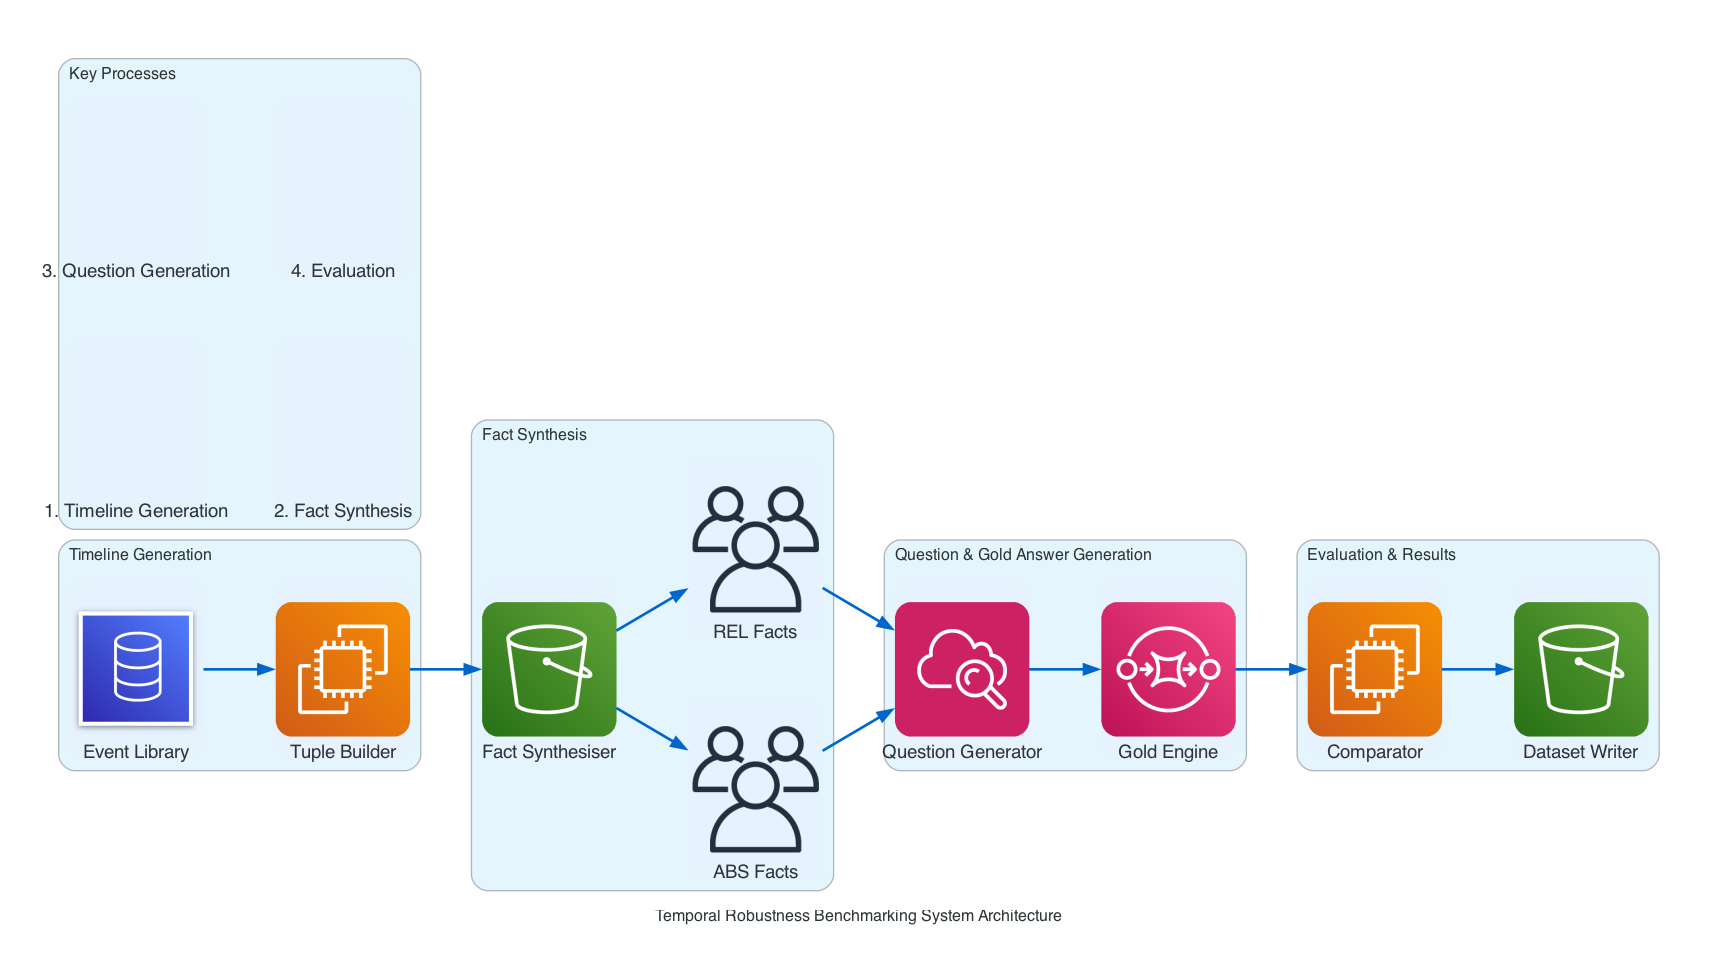
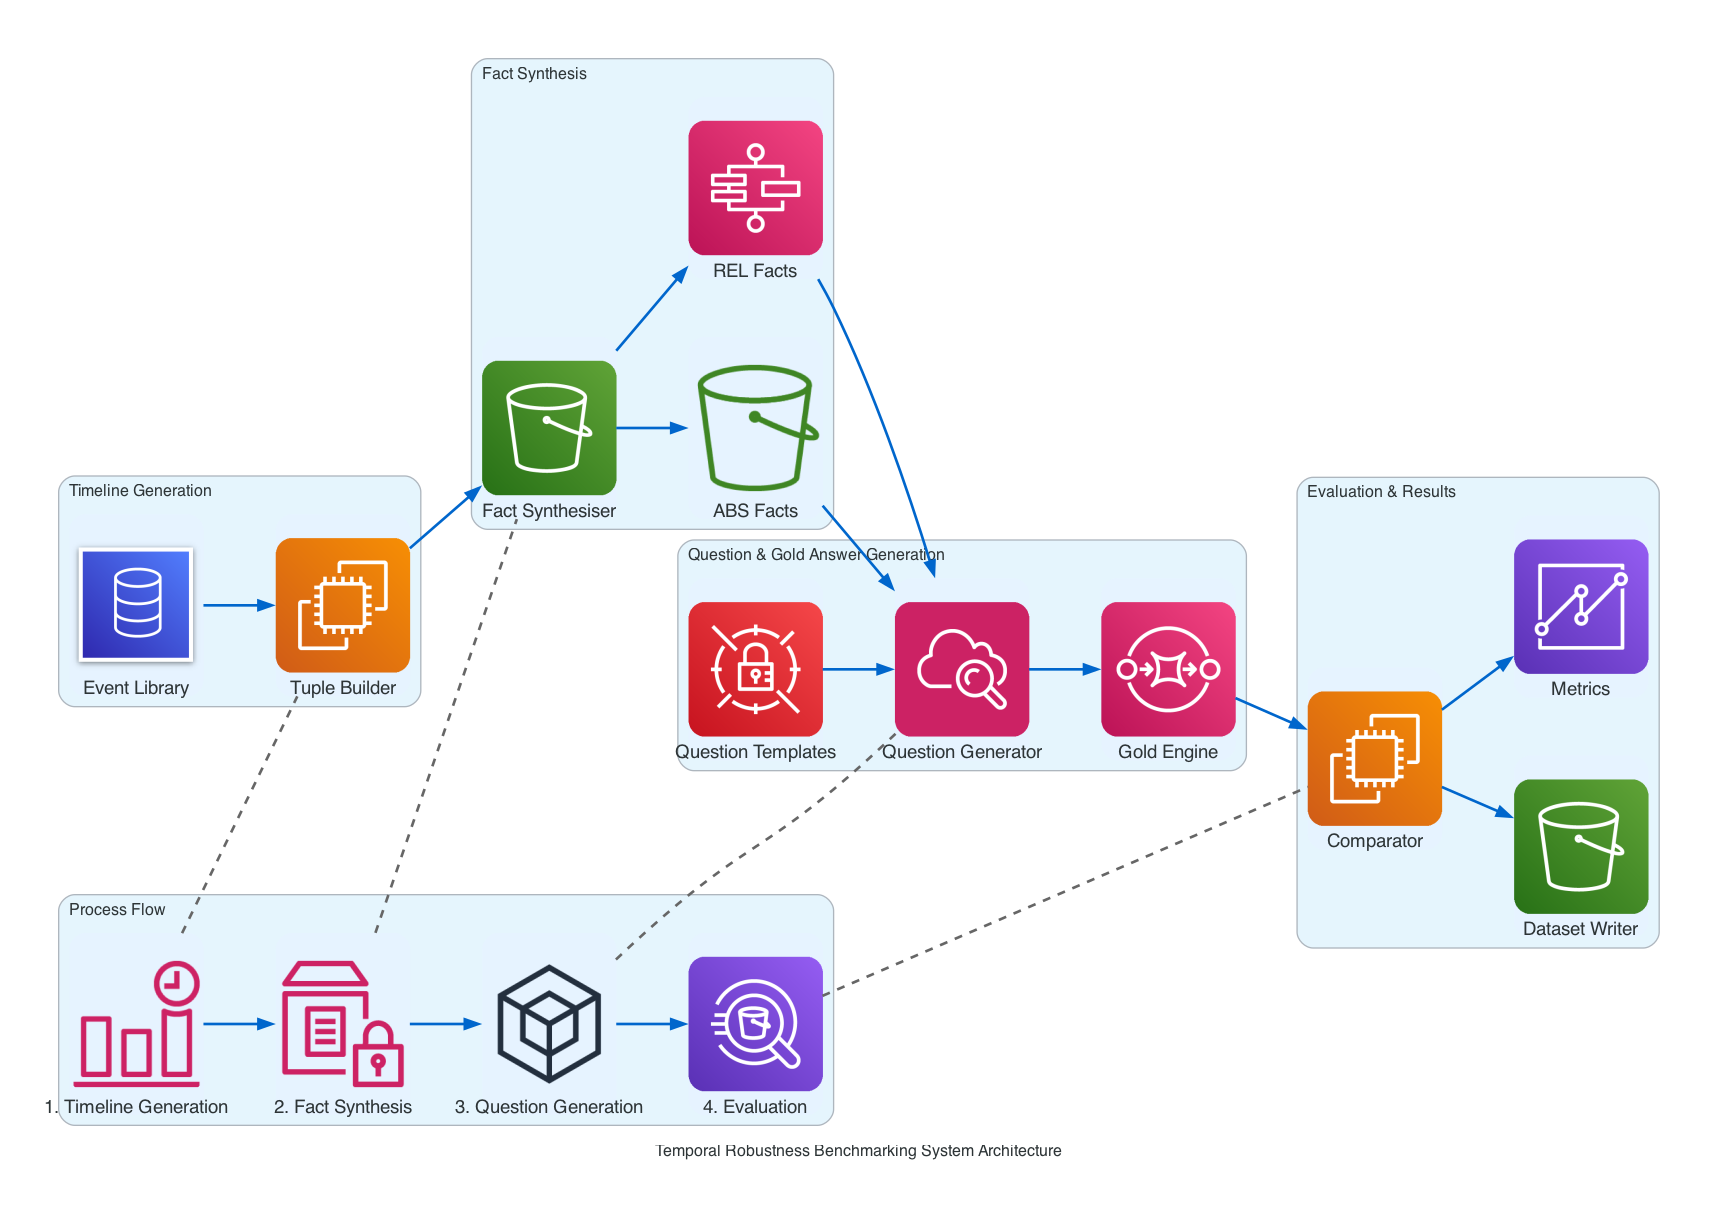
System Architecture Updated with image

diff --git a/system_architecture.py b/system_architecture.py
@@ -7,6 +7,15 @@ from diagrams.aws.storage import S3
 from diagrams.aws.general import Users
 from diagrams.aws.management import Cloudwatch
 from diagrams.aws.integration import SQS
+from diagrams.aws.analytics import Kinesis
+from diagrams.aws.security import SecretsManager
+from diagrams.aws.storage import SimpleStorageServiceS3Bucket
+from diagrams.aws.general import GenericSDK
+from diagrams.aws.management import SystemsManagerParameterStore
+from diagrams.aws.analytics import Athena
+from diagrams.aws.management import CloudwatchEventTimeBased
+from diagrams.aws.analytics import Quicksight
+from diagrams.aws.integration import StepFunctions
 
 # Define custom styles
 graph_attr = {
@@ -55,30 +64,44 @@ with Diagram("Temporal Robustness Benchmarking System Architecture",
 
     # Fact Synthesis with ABS/REL variants
     with Cluster("Fact Synthesis"):
-        fact_synth = S3("Fact Synthesiser")
-        abs_facts = Users("ABS Facts")
-        rel_facts = Users("REL Facts")
+        fact_synthesizer = S3("Fact Synthesiser")
+        abs_facts = SimpleStorageServiceS3Bucket("ABS Facts")
+        rel_facts = StepFunctions("REL Facts")
         
-        tuple_builder >> fact_synth
-        fact_synth >> [abs_facts, rel_facts]
+        tuple_builder >> fact_synthesizer
+        fact_synthesizer >> [abs_facts, rel_facts]
 
     # Question Generation and Gold Answers
     with Cluster("Question & Gold Answer Generation"):
-        question_gen = Cloudwatch("Question Generator")
+        question_generator = Cloudwatch("Question Generator")
         gold_engine = SQS("Gold Engine")
+        templates = SecretsManager("Question Templates")
         
-        [abs_facts, rel_facts] >> question_gen
-        question_gen >> gold_engine
+        [abs_facts, rel_facts] >> question_generator
+        templates >> question_generator
+        question_generator >> gold_engine
 
     # Evaluation and Results
     with Cluster("Evaluation & Results"):
         comparator = EC2("Comparator")
         dataset_writer = S3("Dataset Writer")
+        metrics = Quicksight("Metrics")
         
         gold_engine >> comparator
-        comparator >> dataset_writer
+        comparator >> [dataset_writer, metrics]
 
-    # Add explanatory notes
-    with Cluster("Key Processes"):
-        Blank("1. Timeline Generation") - Edge(style="invis") - Blank("2. Fact Synthesis")
-        Blank("3. Question Generation") - Edge(style="invis") - Blank("4. Evaluation")
+    # Add process flow visualization
+    with Cluster("Process Flow"):
+        process_timeline = CloudwatchEventTimeBased("1. Timeline Generation")
+        process_fact = SystemsManagerParameterStore("2. Fact Synthesis")
+        process_question = GenericSDK("3. Question Generation")
+        process_eval = Athena("4. Evaluation")
+        
+        # Connect processes in sequence
+        process_timeline >> process_fact >> process_question >> process_eval
+        
+        # Connect to actual components
+        process_timeline - Edge(style="dashed", color="#666666") - tuple_builder
+        process_fact - Edge(style="dashed", color="#666666") - fact_synthesizer
+        process_question - Edge(style="dashed", color="#666666") - question_generator
+        process_eval - Edge(style="dashed", color="#666666") - comparator
